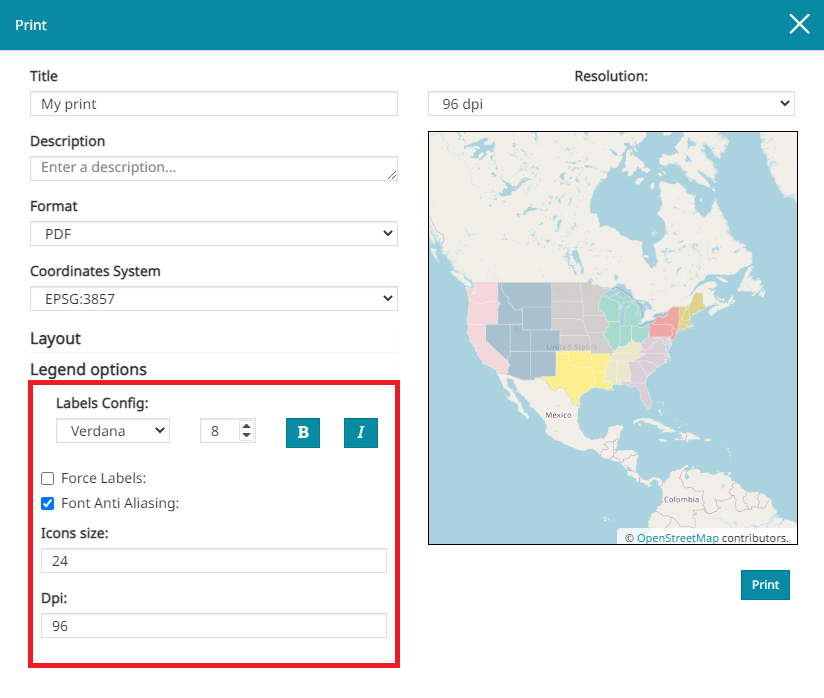
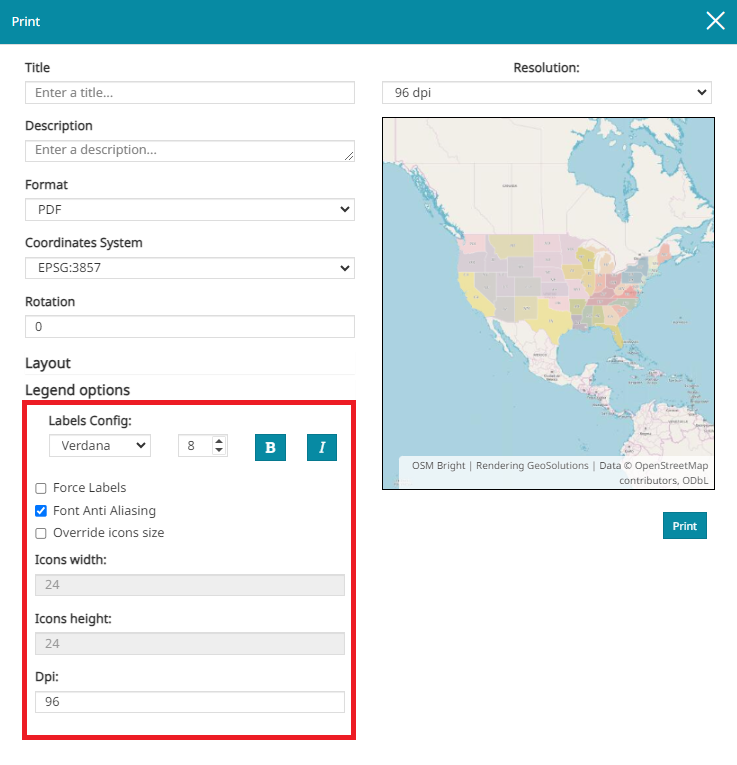
add_9869

Changed region(s): [[0.0, 0.0, 1.0, 0.9928], [0.8738, 0.8123, 0.9674, 0.8725], [0.4681, 0.4212, 0.4993, 0.4513]]

diff --git a/docs/user-guide/print.md b/docs/user-guide/print.md
@@ -63,7 +63,7 @@ Through this menu the user is allowed to:
 
 * Enable the *Font Anti Aliasing* (when Anti Aliasing is on, the borders of the labels font are smoothed improving the image quality)
 
-* Set the *Icons size*
+* Enable the *Override icon size* option to have the ability to change the *Height* and *Width* of the icons (by default, the icon sizes are `24x24`)
 
 * Set the *Dpi* resolution of the legend
 
